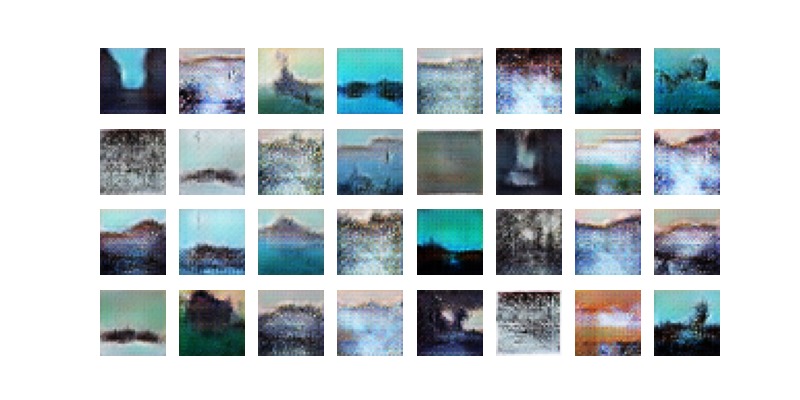
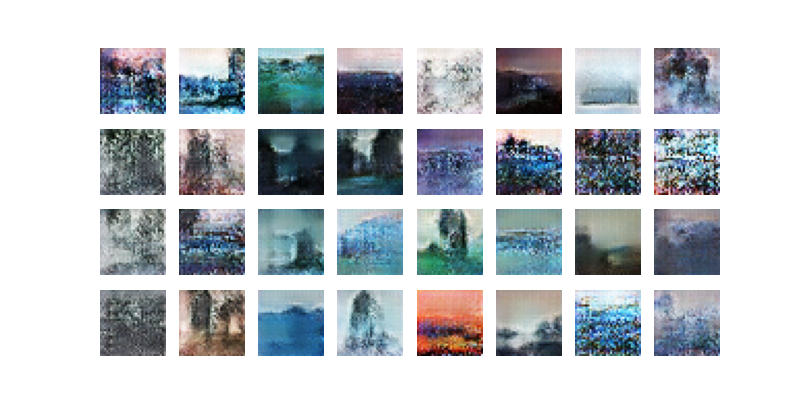
Added minibatch discrimination

diff --git a/DCGAN/networks.py b/DCGAN/networks.py
@@ -1,5 +1,6 @@
 import tensorflow as tf
 from tensorflow import keras
+from keras.layers import Layer
 
 IMG_SIZE        = 32
 LEAKY_SLOPE     = 0.2
@@ -12,6 +13,25 @@ WEIGHT_MEAN     = 0
 scaled_size = IMG_SIZE // SCALE
 weight_init = tf.keras.initializers.TruncatedNormal(stddev=WEIGHT_STD, mean=WEIGHT_MEAN, seed=42)
 
+class Minibatch(Layer):
+    def __init__(self, **kwargs):
+        super(Minibatch, self).__init__(**kwargs)
+
+    def call(self, inputs):
+        mean = tf.reduce_mean(inputs, axis=0, keepdims=True)
+        stddev = tf.sqrt(tf.reduce_mean(tf.square(inputs - mean), axis=0, keepdims=True) + 1e-8)
+        avg_stddev = tf.reduce_mean(stddev, keepdims=True)
+        shape = tf.shape(inputs)
+        minibatch = tf.tile(avg_stddev, (shape[0], shape[1], shape[2], 1))
+        
+        return tf.concat([inputs, minibatch], axis=-1)
+
+    def compute_output_shape(self, input_shape):
+        input_shape = list(input_shape)
+        input_shape[-1] += 1
+
+        return tuple(input_shape)
+
 def conv_transpose(model, out_channels, k_size, s_size, batch_normalize=True):
   model.add(keras.layers.Conv2DTranspose(out_channels, kernel_size=(k_size, k_size), 
                                          strides=(s_size, s_size), padding='same', use_bias=False,
@@ -20,7 +40,7 @@ def conv_transpose(model, out_channels, k_size, s_size, batch_normalize=True):
     model.add(keras.layers.BatchNormalization(momentum=0.9))
 
   #model.add(keras.layers.ReLU())
-  model.add(keras.layers.LeakyReLU(LEAKY_SLOPE))
+  model.add(keras.layers.ReLU())
 
   return model
 
@@ -42,21 +62,24 @@ def generator():
 
   model.add(keras.layers.Dense(scaled_size * scaled_size * 128, input_shape=(CODINGS_SIZE,), kernel_initializer=weight_init))
   model.add(keras.layers.Reshape([scaled_size, scaled_size, 128]))
-  
-  # model = conv_transpose(model, 512, k_size=5, s_size=1)
-  # model.add(keras.layers.Dropout(DROPOUT))
 
+
+  #2x2
+  model = conv_transpose(model, 1024, k_size=5, s_size=2)
+  model.add(keras.layers.Dropout(DROPOUT))
+
+  #4x4
+  model = conv_transpose(model, 512, k_size=5, s_size=2)
+  model.add(keras.layers.Dropout(DROPOUT))
+
+  #8x8
   model = conv_transpose(model, 256, k_size=5, s_size=2)
   model.add(keras.layers.Dropout(DROPOUT))
 
+  #16x16
   model = conv_transpose(model, 128, k_size=5, s_size=2)
-  model.add(keras.layers.Dropout(DROPOUT))
 
-  model = conv_transpose(model, 64, k_size=5, s_size=2)
-  model.add(keras.layers.Dropout(DROPOUT))
-
-  model = conv_transpose(model, 32, k_size=5, s_size=2)
-
+  #32x32
   model.add(keras.layers.Conv2DTranspose(3, kernel_size=(5, 5), strides=(1, 1), 
                                          padding='same', activation='tanh', 
                                          use_bias=True, kernel_initializer=weight_init))
@@ -68,23 +91,29 @@ def generator():
 def discriminator():
   model = keras.models.Sequential()
 
-  model.add(keras.layers.Conv2D(32, kernel_size=(5, 5), strides=(1, 1), 
+  #32x32
+  model.add(keras.layers.Conv2D(128, kernel_size=(5, 5), strides=(2, 2), 
                               padding='same', activation=keras.layers.LeakyReLU(LEAKY_SLOPE), 
                               input_shape=[IMG_SIZE, IMG_SIZE, 3], kernel_initializer=weight_init)) 
 
-  #model.add(keras.layers.Dropout(DROPOUT))
-  model = conv(model, 64, k_size=5, s_size=2)
+  
 
-  #model.add(keras.layers.Dropout(DROPOUT))
-  model = conv(model, 128, k_size=5, s_size=2)
-
+  #16x16
   #model.add(keras.layers.Dropout(DROPOUT))
   model = conv(model, 256, k_size=5, s_size=2)
 
+  #8x8
   #model.add(keras.layers.Dropout(DROPOUT))
-  # model = conv(model, 512, k_size=5, s_size=2)
+  model = conv(model, 512, k_size=5, s_size=2)
 
+  #4x4
+  #model.add(keras.layers.Dropout(DROPOUT))
+  model = conv(model, 1024, k_size=5, s_size=2)
+
+  #2x2
   #model.add(keras.layers.Lambda(minibatch_discrimination))
+
+  model.add(Minibatch())
 
   model.add(keras.layers.Flatten())
   model.add(keras.layers.Dense(1, activation='sigmoid'))

diff --git a/DCGAN/main.py b/DCGAN/main.py
@@ -127,8 +127,8 @@ if __name__ == '__main__':
     BATCH_SIZE      = 32
     CODINGS_SIZE    = 128
     IMG_SIZE        = 32
-    LEARNING_RATE_G = 0.0003
-    LEARNING_RATE_D = 0.0001
+    LEARNING_RATE_G = 0.0002
+    LEARNING_RATE_D = 0.0002
 
     PATH = "D:/School/landscape/"
 
